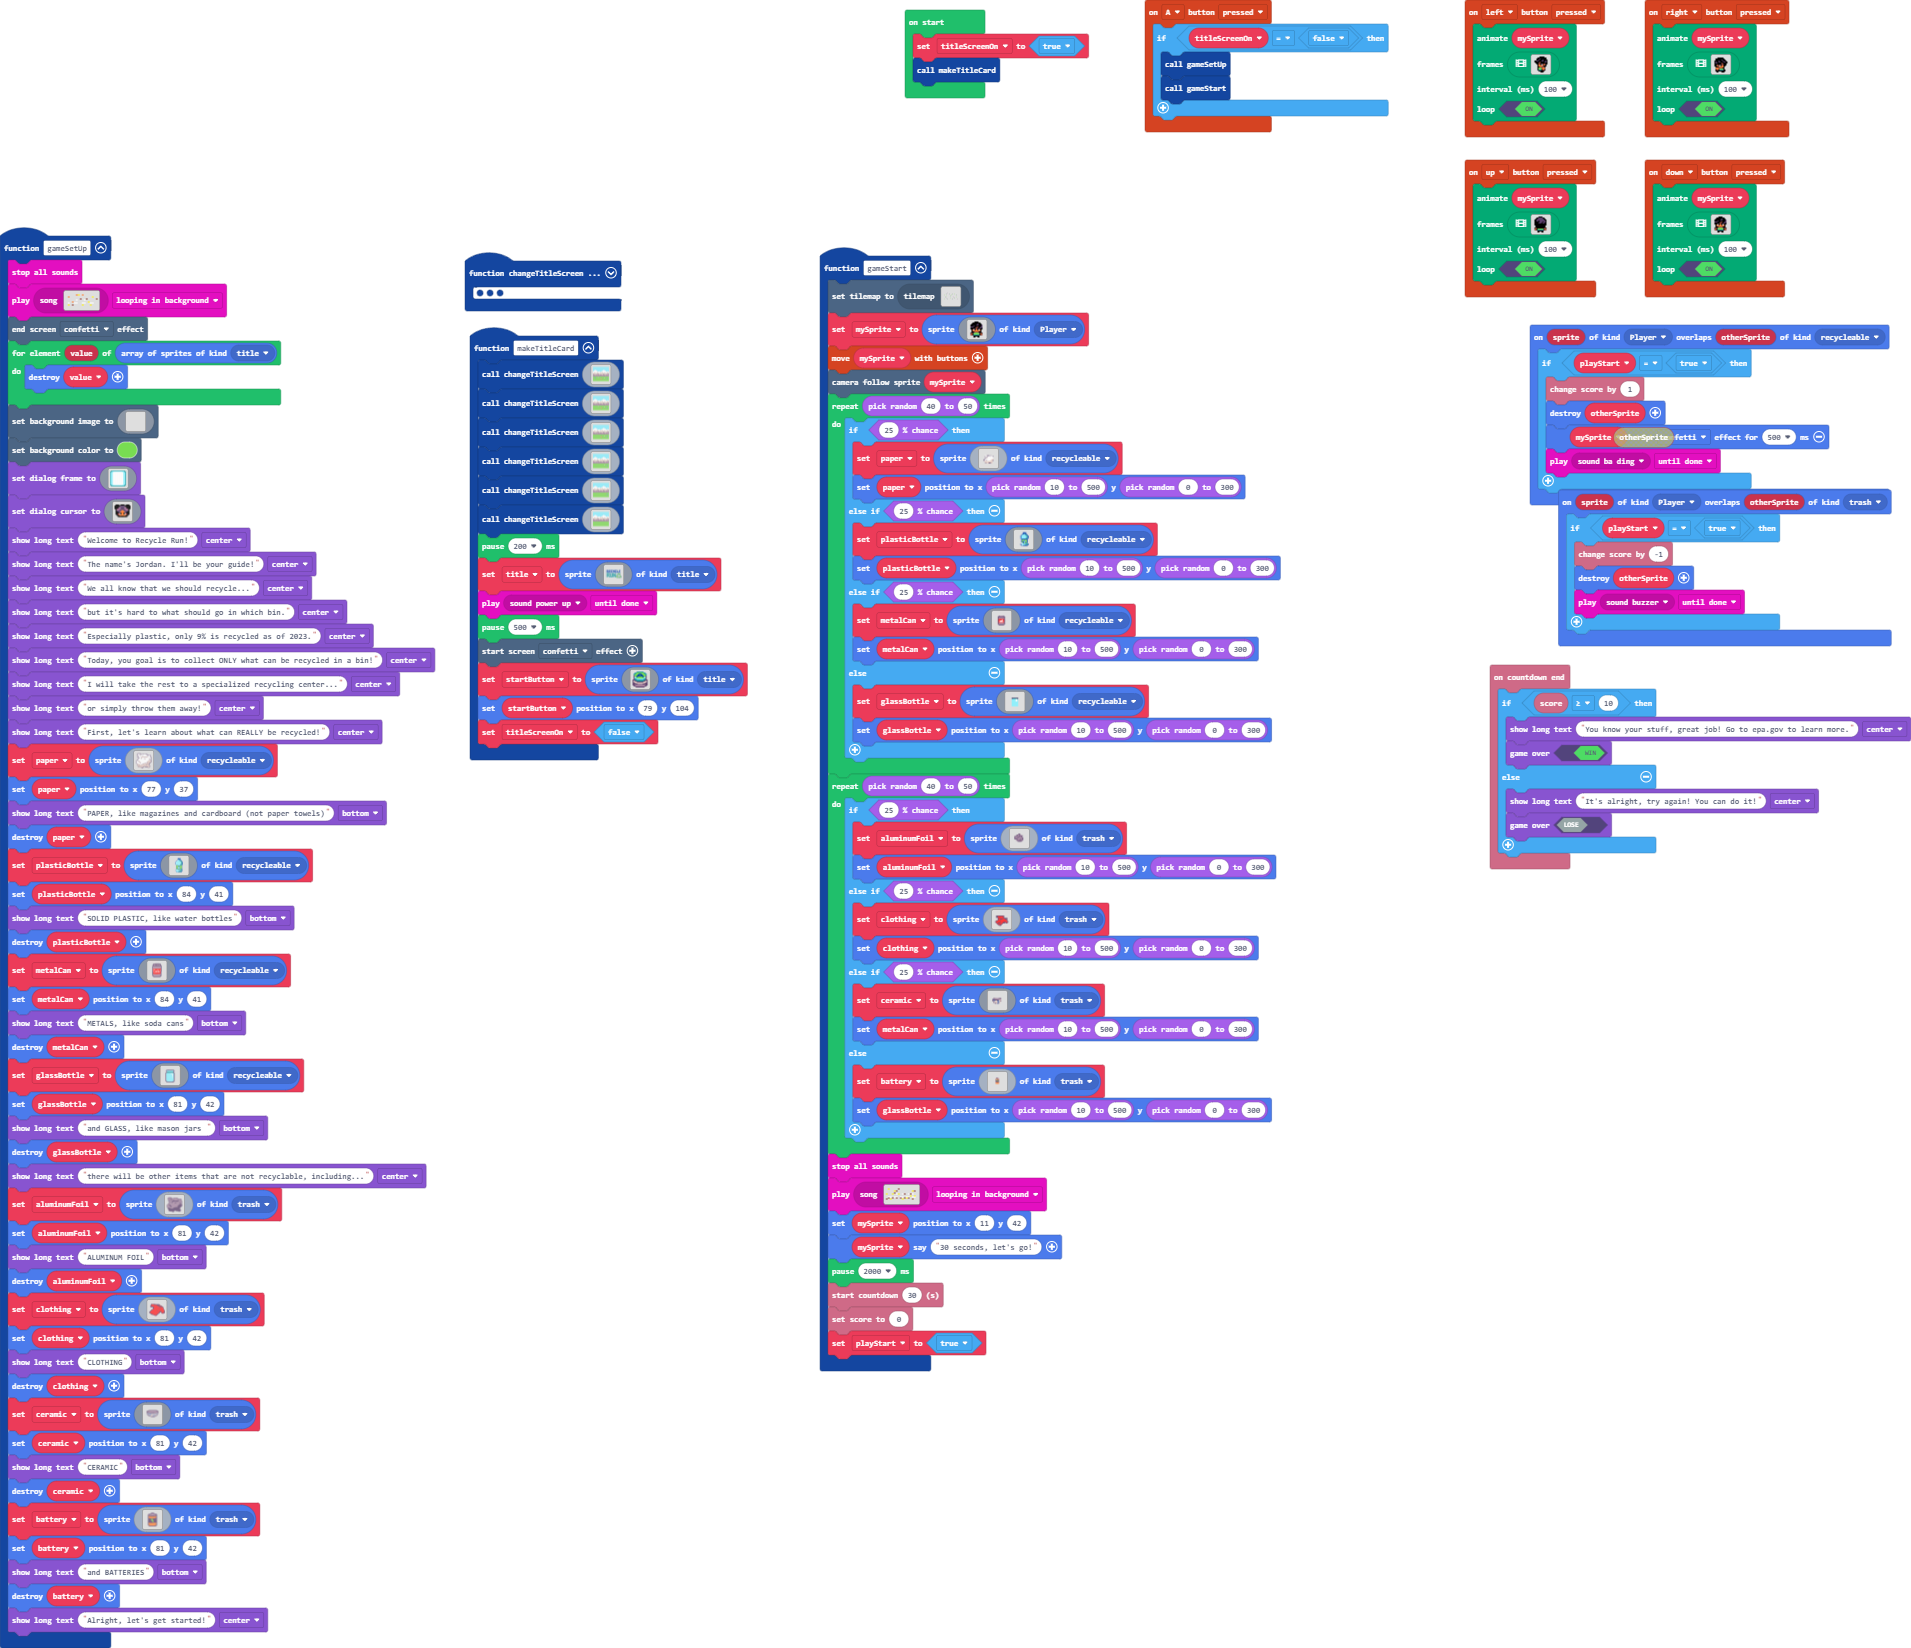
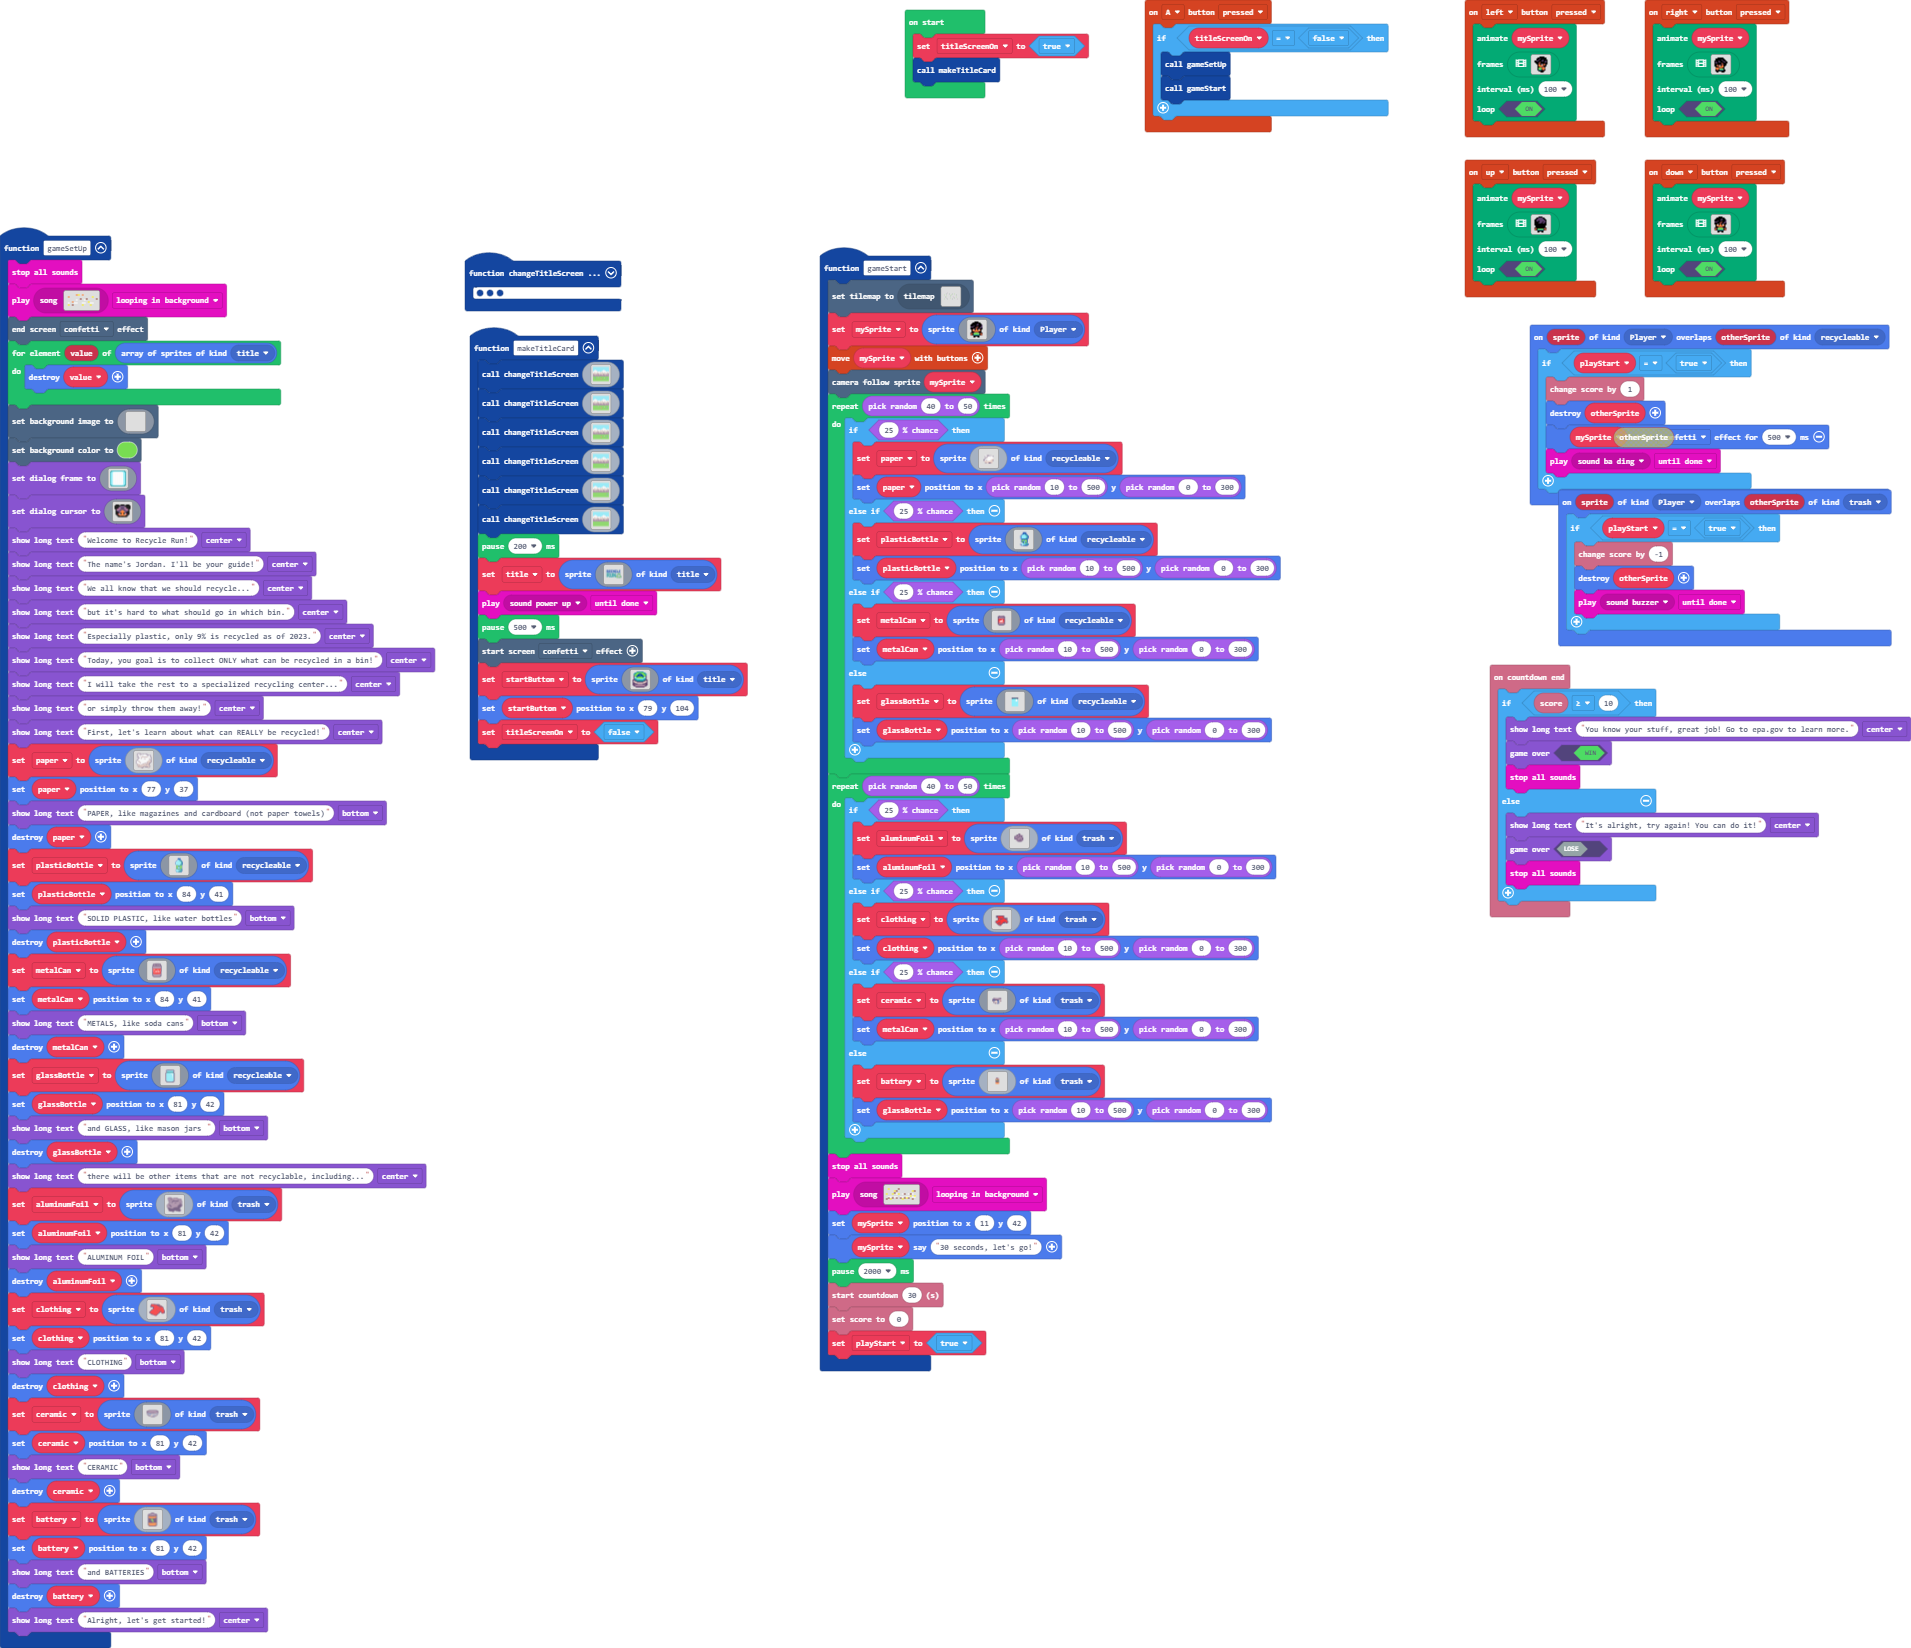
Update main.blocks, main.ts

Changed region(s): [[0.7718, 0.4642, 0.9571, 0.557]]

diff --git a/main.ts b/main.ts
@@ -131,9 +131,11 @@ info.onCountdownEnd(function () {
     if (info.score() >= 10) {
         game.showLongText("You know your stuff, great job! Go to epa.gov to learn more.", DialogLayout.Center)
         game.gameOver(true)
+        music.stopAllSounds()
     } else {
         game.showLongText("It's alright, try again! You can do it!", DialogLayout.Center)
         game.gameOver(false)
+        music.stopAllSounds()
     }
 })
 function changeTitleScreen (myImage: Image) {
